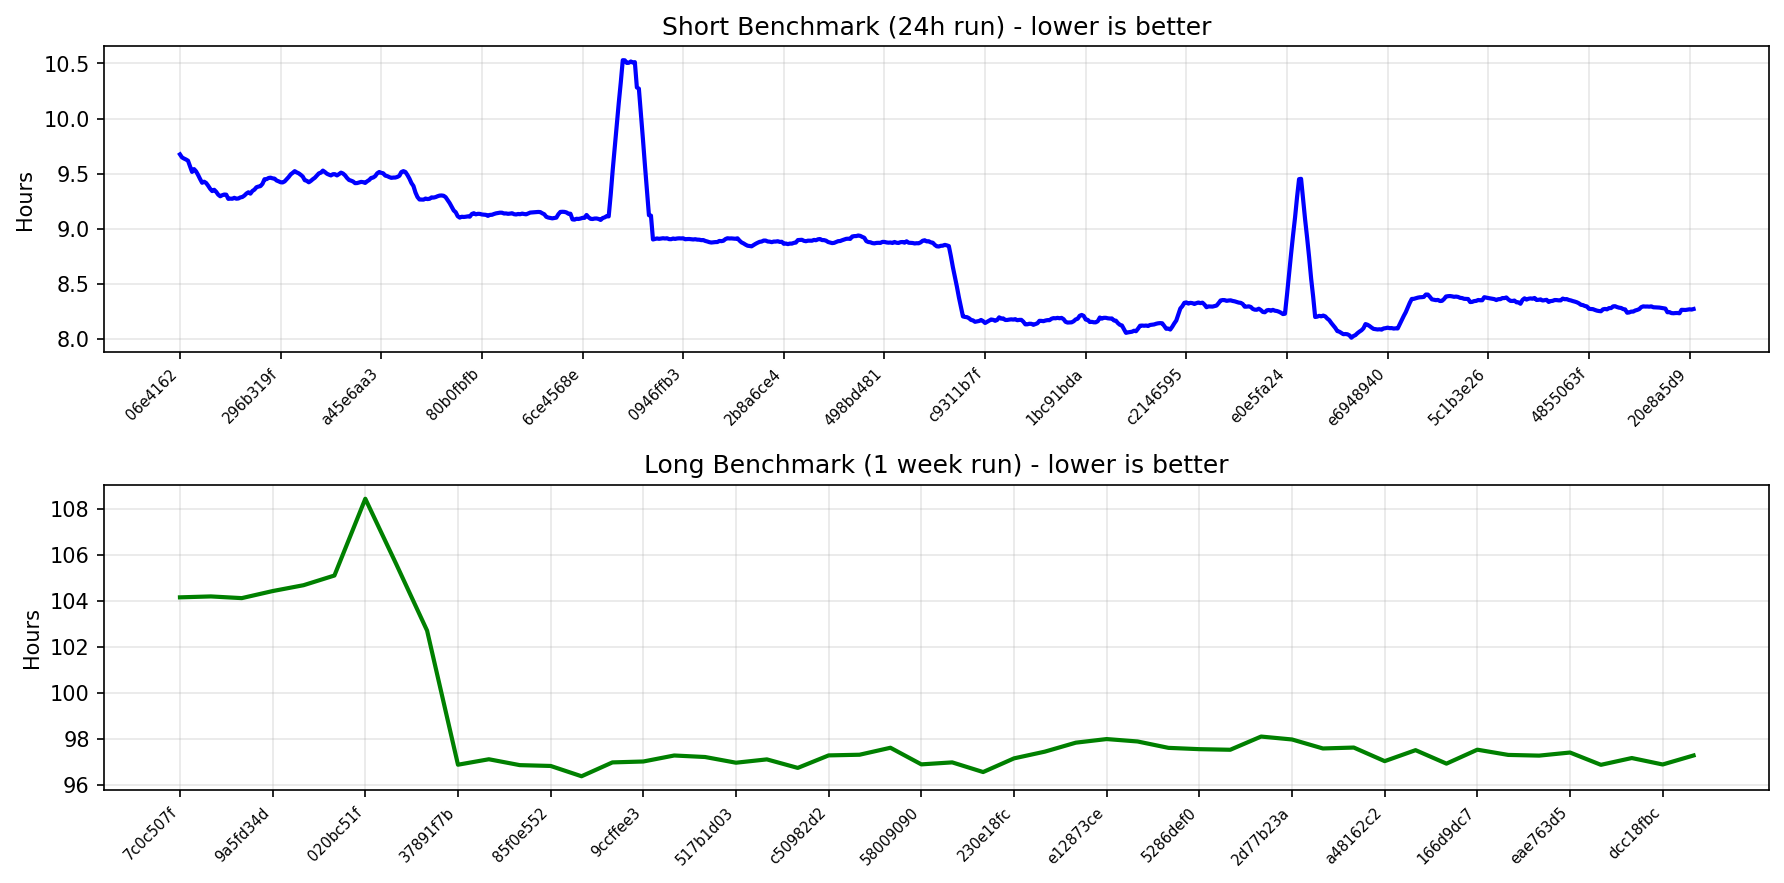
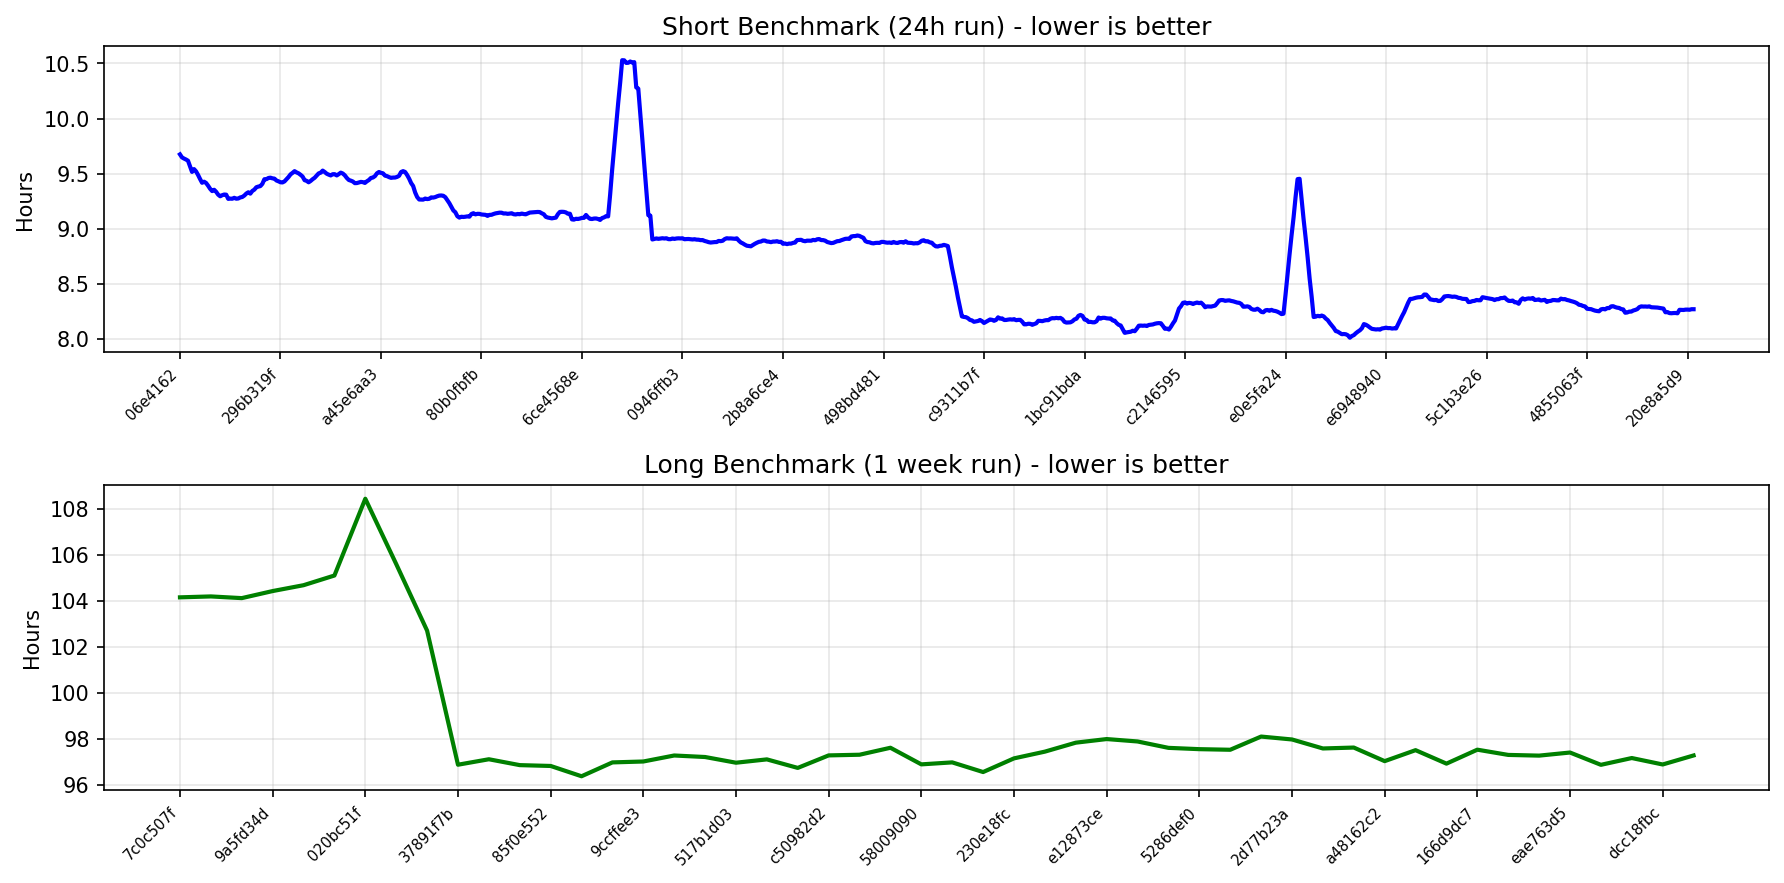
chore: update short benchmark Readme

diff --git a/README.md b/README.md
@@ -12,11 +12,11 @@ This repository contains various eth1 import benchmark metrics.
 
 | Generated At | Baseline SHA | Contender SHA | Baseline Time | Contender Time | Time Delta |
 |--------------|--------------|---------------|---------------|----------------|------------|
+| 2026-06-19 01:21:58 | [881d345d](https://github.com/status-im/nimbus-eth1/commit/881d345d) | [24f0760d](https://github.com/status-im/nimbus-eth1/commit/24f0760d) | 8h16m58s | 8h15m51s | -1m6s, -0.22% |
 | 2026-06-18 16:51:16 | [8b35949d](https://github.com/status-im/nimbus-eth1/commit/8b35949d) | [881d345d](https://github.com/status-im/nimbus-eth1/commit/881d345d) | 8h15m29s | 8h16m58s | 1m28s, 0.30% |
 | 2026-06-18 08:21:59 | [20e8a5d9](https://github.com/status-im/nimbus-eth1/commit/20e8a5d9) | [8b35949d](https://github.com/status-im/nimbus-eth1/commit/8b35949d) | 8h16m57s | 8h15m29s | -1m28s, -0.30% |
 | 2026-06-17 23:51:18 | [39179416](https://github.com/status-im/nimbus-eth1/commit/39179416) | [20e8a5d9](https://github.com/status-im/nimbus-eth1/commit/20e8a5d9) | 8h15m32s | 8h16m57s | 1m25s, 0.29% |
 | 2026-06-17 15:22:06 | [7b3ebff0](https://github.com/status-im/nimbus-eth1/commit/7b3ebff0) | [39179416](https://github.com/status-im/nimbus-eth1/commit/39179416) | 8h14m52s | 8h15m32s | 39s, 0.13% |
-| 2026-06-17 06:53:32 | [acba3074](https://github.com/status-im/nimbus-eth1/commit/acba3074) | [7b3ebff0](https://github.com/status-im/nimbus-eth1/commit/7b3ebff0) | 8h16m28s | 8h14m52s | -1m36s, -0.32% |
 
 ## Latest 5 Long Benchmarks (1 Week Run)
 